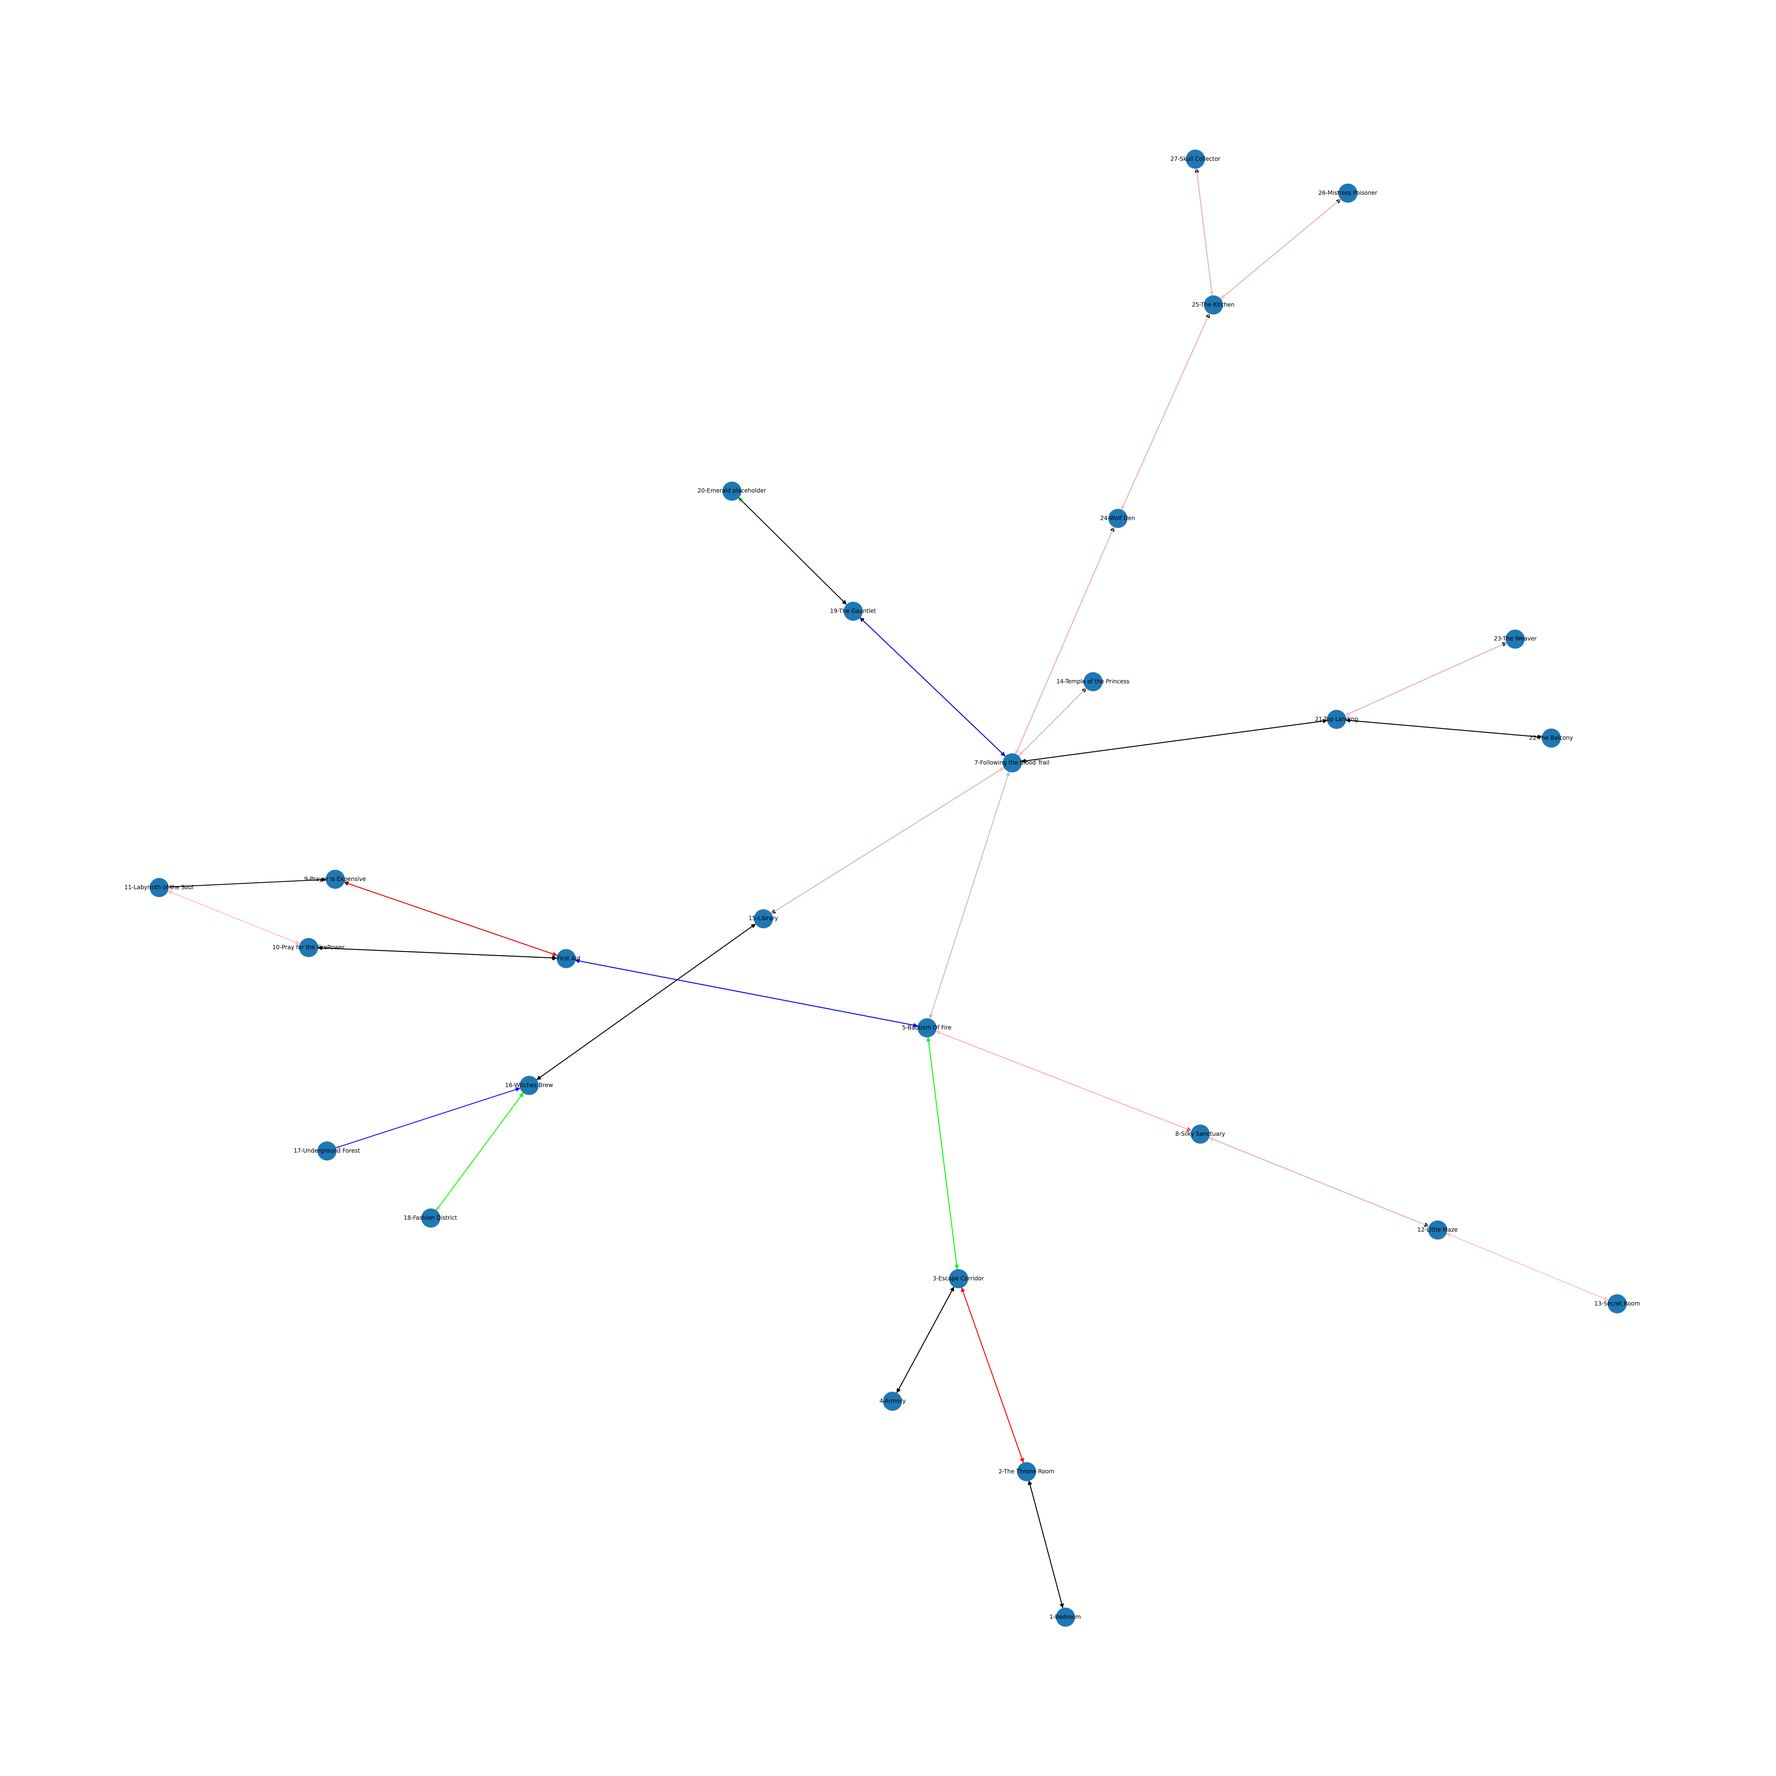
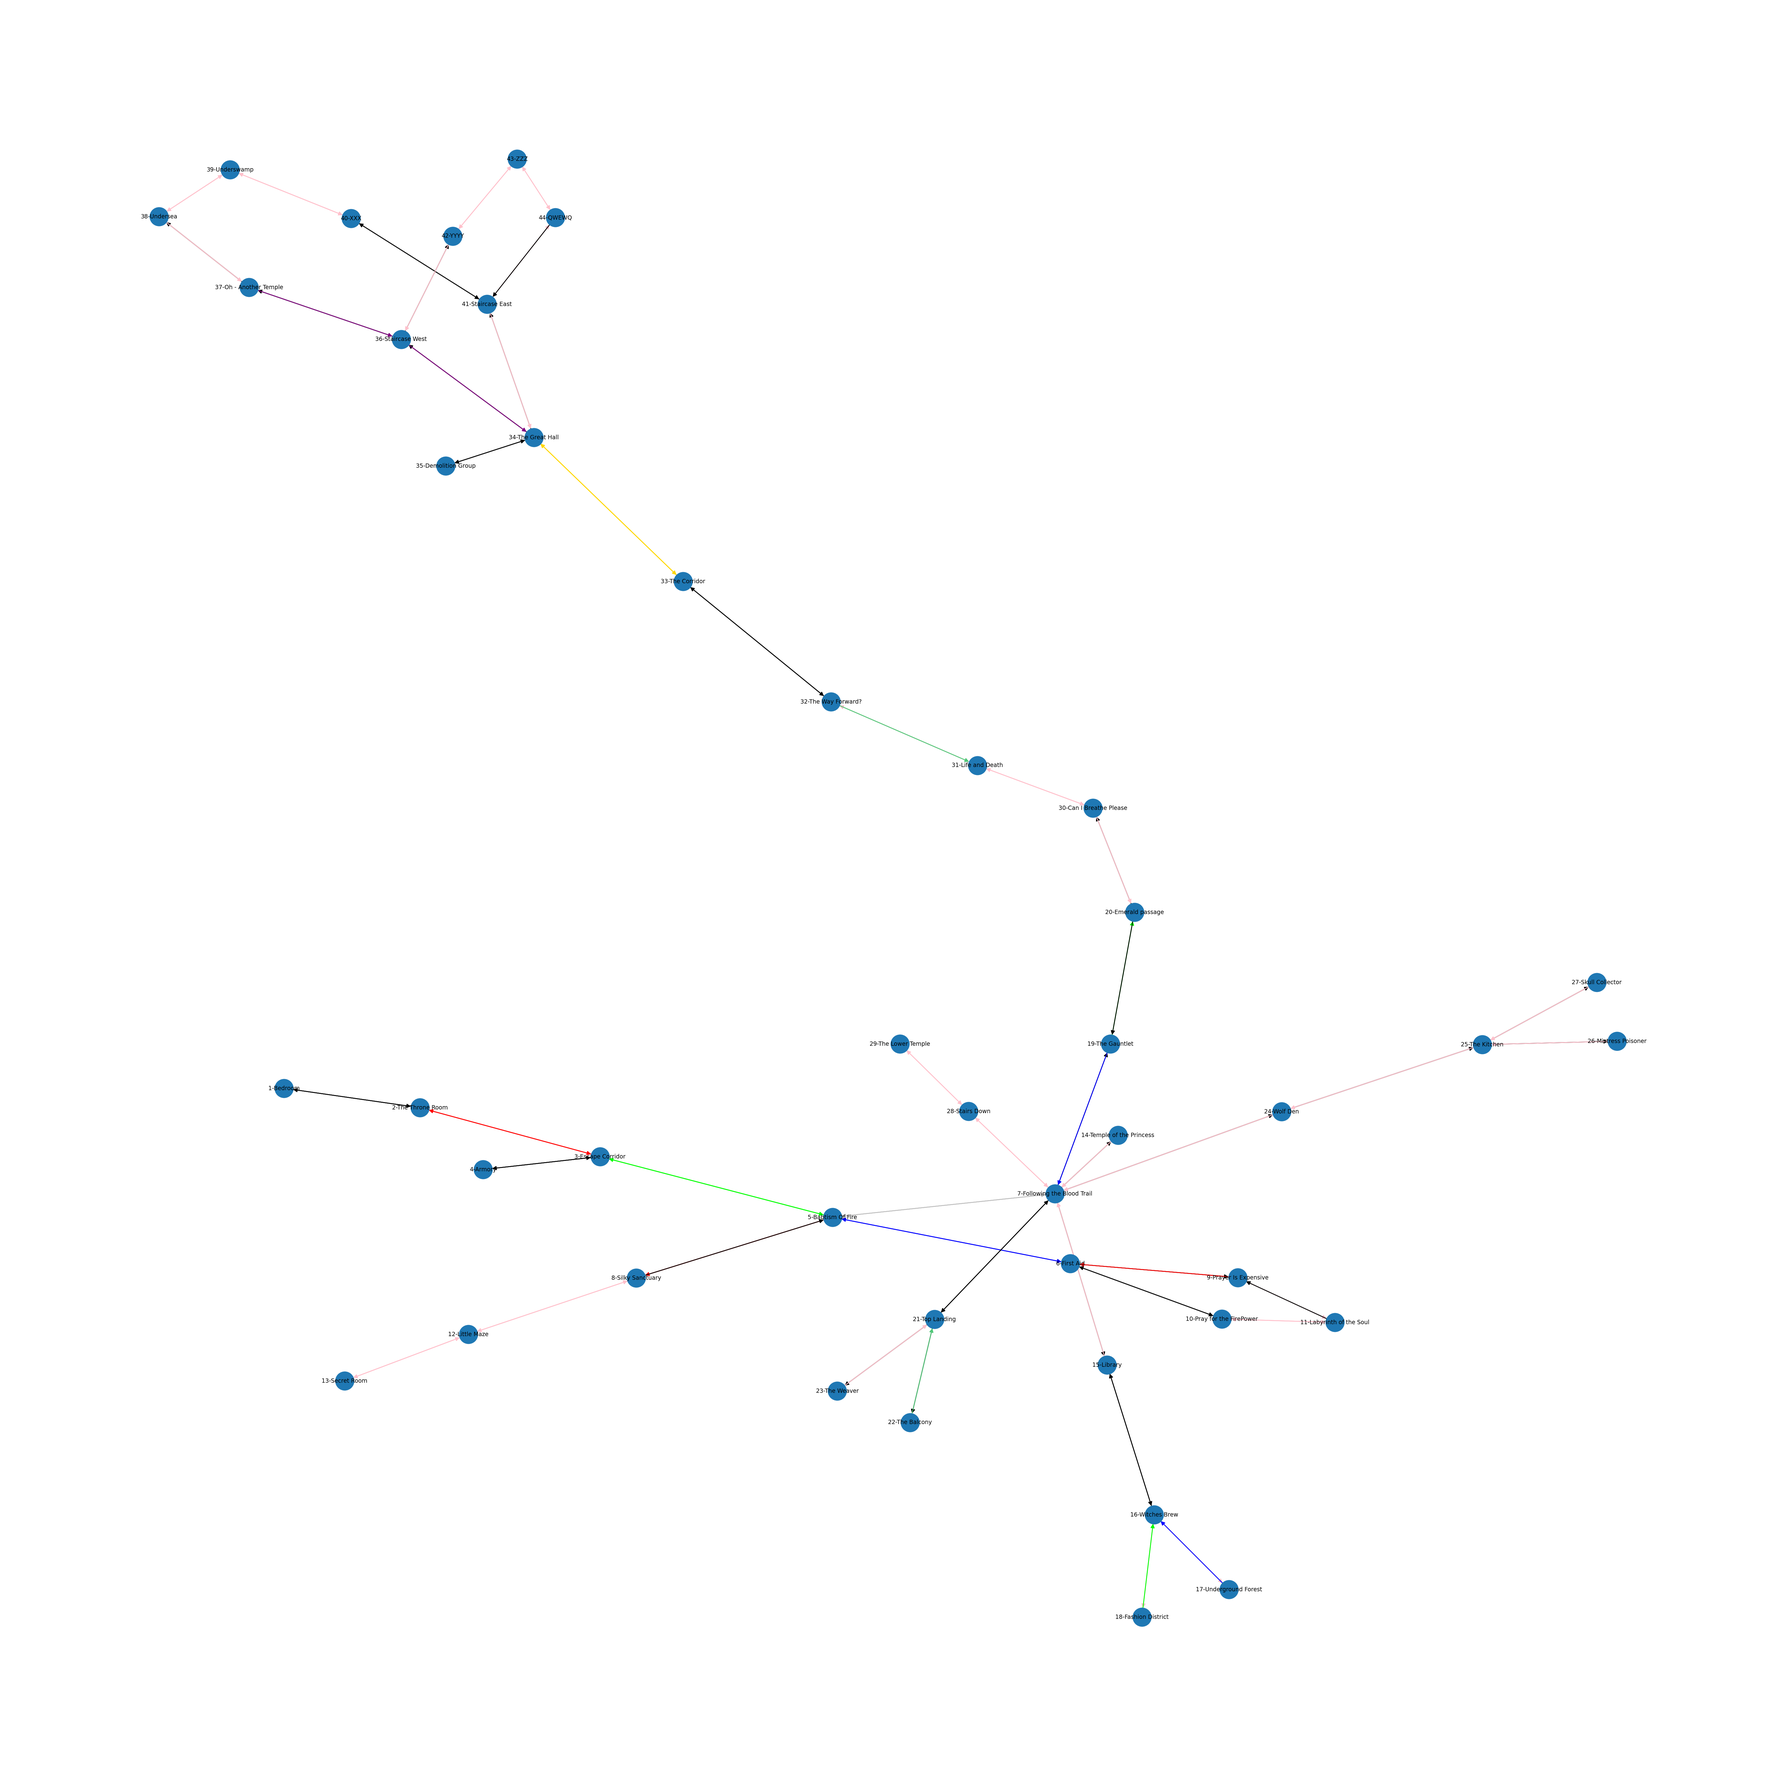
0.10.07

diff --git a/Assets/Definitions/CastleHaunt2/MAP_CastleHaunt2.js b/Assets/Definitions/CastleHaunt2/MAP_CastleHaunt2.js
@@ -41,6 +41,20 @@ const MAP_TEXT = {
     29: "You better make me rich so I can afford all this training.",
     30: "I shold prepare myself for what is comming.",
     31: "I sense the battle comming up.",
+    32: "",
+    33: "",
+    34: "",
+    35: "",
+    36: "",
+    37: "",
+    38: "",
+    39: "",
+    40: "",
+    41: "",
+    42: "",
+    43: "",
+    44: "",
+    45: "",
 };
 
 /** Map definitions */
@@ -692,7 +706,7 @@ const MAP = {
     }
     ,
     30: {
-        name: "Can I Breathe, Please",
+        name: "Can I Breathe Please",
         sg: 0,
         maxSpawned: -1,
         killCountdown: -1,
@@ -784,7 +798,7 @@ const MAP = {
         ceil: "GoldWithVines2",
         start: '[34,7]',
         lights: '[[126,1,"Lamp45","standardDimmed"],[402,1,"Lamp44","standardDimmed"],[126,7,"Candelabra10","standardDimmed"],[402,7,"Candelabra18","standardDimmed"],[258,3,"Candelabra15","standardDimmed"],[270,3,"Lamp49","standardDimmed"],[258,5,"Lamp40","standardDimmed"],[270,5,"Lights115","standardDimmed"],[25,7,"WallLamp14","dim"],[43,7,"Candelabra12","dim"],[485,1,"Lamp42","dim"],[503,1,"Lamp47","dim"]]',
-        gates: '[[11,7,"34.1","33.2","Closed"],[517,1,"34.2","35.1","Purple"],[69,5,"34.3","36.1","Closed"]]',
+        gates: '[[11,7,"34.1","33.2","Closed"],[517,1,"34.2","35.1","Purple"],[69,5,"34.3","36.1","Closed"],[91,3,"34.4","41.2","Closed"]]',
         lairs: '[[241,1,"Lair34"],[287,7,"Lair32"],[263,3,"Lair25"],[265,5,"Lair04"]]',
         monsterList: '["MissGalaxyGold","Goblin"]',
     }
@@ -819,12 +833,12 @@ const MAP = {
         ceil: "MC_Wall6",
         start: '[118,3]',
         lights: '[[110,5,"WallLamp12","standardDimmed"],[83,3,"Candelabra17","standardDimmed"],[143,3,"Lamp46","standardDimmed"]]',
-        gates: '[[119,3,"36.1","34.3","Closed"],[75,5,"36.2","37.1","Down"]]',
+        gates: '[[119,3,"36.1","34.3","Closed"],[75,5,"36.2","37.1","Down"],[135,5,"36.3","42.1","Up"]]',
         oracles: '[[7,7,"Bomber"]]',
     }
     ,
     37: {
-        name: "Oh, Another Temple",
+        name: "Oh - Another Temple",
         sg: 0,
         maxSpawned: -1,
         killCountdown: -1,
@@ -875,11 +889,83 @@ const MAP = {
         maxSpawned: -1,
         killCountdown: -1,
         spawnDelay: -1,
-        data: '{"width":"17","height":"17","map":"BB13AA2BAA156BB29AA2BB13AA10BB62A$"}',
+        data: '{"width":"17","height":"17","map":"BB4ABB9ABAA156BB30ABB9ABB2AA2BAA8BB62A$"}',
         wall: "DARKBricks107",
         floor: "DarkRock",
         ceil: "SpiderWeb12",
         start: '[222,5]',
-        gates: '[[221,5,"40.1","39.2","Down"]]',
+        gates: '[[221,5,"40.1","39.2","Down"],[67,3,"40.2","41.1","Up"]]',
+    }
+    ,
+    41: {
+        name: "Staircase East",
+        sg: 0,
+        maxSpawned: -1,
+        killCountdown: -1,
+        spawnDelay: -1,
+        data: '{"width":"15","height":"15","map":"BB6ABB4AA2BB2AA110BB26AA2BB4ABB4AA4BAA3BB54A$"}',
+        wall: "RedishRockyWall1",
+        floor: "MarbleFloor105",
+        ceil: "MarbleTiles4",
+        start: '[151,5]',
+        gates: '[[150,5,"41.1","40.2","Down"],[60,5,"41.2","34.4","Closed"],[119,3,"41.3","44.2","Up"]]',
+    }
+    ,
+    42: {
+        name: "YYYY",
+        sg: 0,
+        maxSpawned: -1,
+        killCountdown: -1,
+        spawnDelay: -1,
+        data: '{"width":"21","height":"15","map":"BB9AA24BB2AA6BAA101BAA12BB2AA25BB24AA3BB13ABB3AA9BB78A$"}',
+        wall: "SmallBlackBricks44",
+        floor: "MarbleFloor104",
+        ceil: "MC_Wall9",
+        start: '[151,3]',
+        gates: '[[152,3,"42.1","36.3","Down"],[167,3,"42.","43.1","Closed"]]',
+    }
+    ,
+    43: {
+        name: "Meadow",
+        sg: 0,
+        maxSpawned: -1,
+        killCountdown: -1,
+        spawnDelay: -1,
+        data: '{"width":"21","height":"15","map":"BB2ABABB7AA54BAA39BAA3BAA31BB2AA18BAA22BABB10ABABAA2BB15ABB5ABB6ABAA7BB23ABB38$BB12A"}',
+        wall: "MistyMeadow4",
+        floor: "GrassMeadow101",
+        ceil: "Overcast2",
+        start: '[148,5]',
+        lights: '[[110,1,"Lights112","standardDimmed"],[121,1,"Lights112","standardDimmed"],[197,7,"Lights112","standardDimmed"],[201,7,"Lights112","standardDimmed"]]',
+        gates: '[[147,5,"43.1","42.2","Closed"],[167,3,"43.2","44.1","Closed"],[10,7,"43.3","45.1","Up"]]',
+    }
+    ,
+    44: {
+        name: "QWEWQ",
+        sg: 0,
+        maxSpawned: -1,
+        killCountdown: -1,
+        spawnDelay: -1,
+        data: '{"width":"21","height":"15","map":"BB9AA40BB3AA73BAA4BB2AA51BB27AA3BB9ABB4AA9BB78A$"}',
+        wall: "DungeonWall128",
+        floor: "Grass20",
+        ceil: "RedBricks1",
+        start: '[148,5]',
+        gates: '[[147,5,"44.1","43.2","Closed"],[160,5,"44.2","41.3","Down"]]',
+    }
+    ,
+    45: {
+        name: "Alps",
+        sg: 0,
+        maxSpawned: -1,
+        killCountdown: -1,
+        spawnDelay: -1,
+        data: '{"width":"15","height":"15","map":"BB12AA110BB42AA10BB15ABB24ABB10$"}',
+        wall: "Hills2",
+        floor: "Grass12",
+        ceil: "Overcast1",
+        start: '[202,1]',
+        lights: '[[18,7,"Candelabra08","standard"],[26,7,"Candelabra08","standard"],[199,1,"Candelabra10","standardDimmed"],[205,1,"Candelabra10","standardDimmed"]]',
+        gates: '[[217,1,"45.1","43.3","Down"]]',
     }
 };

diff --git a/Assets/Definitions/CastleHaunt2/assets_CastleHaunt2.js b/Assets/Definitions/CastleHaunt2/assets_CastleHaunt2.js
@@ -608,6 +608,37 @@ LoadTextures = [
     { srcName: "Wall/Water30.jpg", name: "Water30" },
     { srcName: "Wall/Water31.jpg", name: "Water31" },
     { srcName: "Wall/Water32.jpg", name: "Water32" },
+
+    { srcName: "Wall/Forest101.jpg", name: "Forest101" },
+    { srcName: "Wall/Forest102.jpg", name: "Forest102" },
+    { srcName: "Wall/Forest103.jpg", name: "Forest103" },
+    { srcName: "Wall/Forest104.jpg", name: "Forest104" },
+    { srcName: "Wall/Forest105.jpg", name: "Forest105" },
+    { srcName: "Wall/Forest106.jpg", name: "Forest106" },
+    { srcName: "Wall/Forest107.jpg", name: "Forest107" },
+    { srcName: "Wall/Forest108.jpg", name: "Forest108" },
+    { srcName: "Wall/Forest109.jpg", name: "Forest109" },
+    { srcName: "Wall/Forest110.jpg", name: "Forest110" },
+    { srcName: "Wall/Forest111.jpg", name: "Forest111" },
+    { srcName: "Wall/Forest112.jpg", name: "Forest112" },
+    { srcName: "Wall/Forest113.jpg", name: "Forest113" },
+    { srcName: "Wall/Forest114.jpg", name: "Forest114" },
+    { srcName: "Wall/Forest115.jpg", name: "Forest115" },
+    { srcName: "Wall/Forest116.jpg", name: "Forest116" },
+    { srcName: "Wall/GrassMeadow101.jpg", name: "GrassMeadow101" },
+    { srcName: "Wall/GrassMeadow102.jpg", name: "GrassMeadow102" },
+    { srcName: "Wall/GrassMeadow103.jpg", name: "GrassMeadow103" },
+    { srcName: "Wall/Hills1.jpg", name: "Hills1" },
+    { srcName: "Wall/Hills2.jpg", name: "Hills2" },
+    { srcName: "Wall/Hills3.jpg", name: "Hills3" },
+    { srcName: "Wall/Hills4.jpg", name: "Hills4" },
+    { srcName: "Wall/Hills5.jpg", name: "Hills5" },
+    { srcName: "Wall/MistyMeadow1.jpg", name: "MistyMeadow1" },
+    { srcName: "Wall/MistyMeadow2.jpg", name: "MistyMeadow2" },
+    { srcName: "Wall/MistyMeadow3.jpg", name: "MistyMeadow3" },
+    { srcName: "Wall/MistyMeadow4.jpg", name: "MistyMeadow4" },
+    { srcName: "Wall/Overcast1.jpg", name: "Overcast1" },
+    { srcName: "Wall/Overcast2.jpg", name: "Overcast2" },
     /** decals that are textures */
     { srcName: "Wall/Nook1.jpg", name: "Nook1" },
 
@@ -831,6 +862,8 @@ LoadSprites = [
     { srcName: "EntityPictures/ScrollSell_DestroyArmor.jpg", name: "ScrollSell_Explode" },
     { srcName: "EntityPictures/JapananeseMistress.jpg", name: "JapananeseMistress" },
     { srcName: "EntityPictures/Bomber.jpg", name: "Bomber" },
+    { srcName: "EntityPictures/Keysa_CH2.jpg", name: "Keysa" },
+    { srcName: "EntityPictures/AlloyaPinkass.jpg", name: "AlloyaPinkass" },
 
     //action movables
     { srcName: "ActionMovables/GreenSpider.png", name: "BabyGreenSpider" },

diff --git a/Assets/Definitions/MazEditor/assets_MazEditor.js b/Assets/Definitions/MazEditor/assets_MazEditor.js
@@ -602,6 +602,37 @@ LoadTextures = [
     { srcName: "Wall/Water30.jpg", name: "Water30" },
     { srcName: "Wall/Water31.jpg", name: "Water31" },
     { srcName: "Wall/Water32.jpg", name: "Water32" },
+
+    { srcName: "Wall/Forest101.jpg", name: "Forest101" },
+    { srcName: "Wall/Forest102.jpg", name: "Forest102" },
+    { srcName: "Wall/Forest103.jpg", name: "Forest103" },
+    { srcName: "Wall/Forest104.jpg", name: "Forest104" },
+    { srcName: "Wall/Forest105.jpg", name: "Forest105" },
+    { srcName: "Wall/Forest106.jpg", name: "Forest106" },
+    { srcName: "Wall/Forest107.jpg", name: "Forest107" },
+    { srcName: "Wall/Forest108.jpg", name: "Forest108" },
+    { srcName: "Wall/Forest109.jpg", name: "Forest109" },
+    { srcName: "Wall/Forest110.jpg", name: "Forest110" },
+    { srcName: "Wall/Forest111.jpg", name: "Forest111" },
+    { srcName: "Wall/Forest112.jpg", name: "Forest112" },
+    { srcName: "Wall/Forest113.jpg", name: "Forest113" },
+    { srcName: "Wall/Forest114.jpg", name: "Forest114" },
+    { srcName: "Wall/Forest115.jpg", name: "Forest115" },
+    { srcName: "Wall/Forest116.jpg", name: "Forest116" },
+    { srcName: "Wall/GrassMeadow101.jpg", name: "GrassMeadow101" },
+    { srcName: "Wall/GrassMeadow102.jpg", name: "GrassMeadow102" },
+    { srcName: "Wall/GrassMeadow103.jpg", name: "GrassMeadow103" },
+    { srcName: "Wall/Hills1.jpg", name: "Hills1" },
+    { srcName: "Wall/Hills2.jpg", name: "Hills2" },
+    { srcName: "Wall/Hills3.jpg", name: "Hills3" },
+    { srcName: "Wall/Hills4.jpg", name: "Hills4" },
+    { srcName: "Wall/Hills5.jpg", name: "Hills5" },
+    { srcName: "Wall/MistyMeadow1.jpg", name: "MistyMeadow1" },
+    { srcName: "Wall/MistyMeadow2.jpg", name: "MistyMeadow2" },
+    { srcName: "Wall/MistyMeadow3.jpg", name: "MistyMeadow3" },
+    { srcName: "Wall/MistyMeadow4.jpg", name: "MistyMeadow4" },
+    { srcName: "Wall/Overcast1.jpg", name: "Overcast1" },
+    { srcName: "Wall/Overcast2.jpg", name: "Overcast2" },
     /** decals that are textures */
     { srcName: "Wall/Nook1.jpg", name: "Nook1" },
 ];

diff --git a/Assets/Definitions/CastleHaunt2/Monsters_CastleHaunt2.js b/Assets/Definitions/CastleHaunt2/Monsters_CastleHaunt2.js
@@ -1037,7 +1037,7 @@ const MONSTER_TYPE = {
         missile: BouncingMissile,
         missileType: COMMON_ITEM_TYPE.Bounceball,
     },
-    
+
 
     MissWhite: {
         name: "MissWhite",
@@ -2859,6 +2859,32 @@ const INTERACTION_ENTITY = {
             intro: "In shadows lurk, a collector's plea, skulls she seeks, from you and me.",
             progress: "Her collection grows, yet still she waits, for more to come, through darkened gates.",
             conclusion: "With skulls in tow, her smile gleams, a gold coin yours, in moonlight beams.",
+        }
+    },
+    AlloyaPinkass: {
+        name: "AlloyaPinkass",
+        sprite: "AlloyaPinkass",
+        category: 'crest',
+        voice: "Female",
+        wants: ["GoldBar", "IronBar", "SilverBar", "UraniumBar"],
+        gives: "GoldSteel",
+        text: {
+            intro: "In fire and forge, my art does bloom, For GoldSteel creation, metals I consume.",
+            progress: "Bar by bar, the alloy takes shape, Continue your quest, let no metal escape.",
+            conclusion: "Gold, iron, silver, uranium, now blend, GoldSteel is forged, your journey's end."
+        }
+    },
+    Keysa: {
+        name: "Keysa",
+        sprite: "Keysa",
+        category: 'crest',
+        voice: "Female",
+        wants: ["GoldSteel", "PurpleTear"],
+        gives: "PurpleKey",
+        text: {
+            intro: "In my workshop, magic and metal blend, For a unique key, two treasures I'll mend.",
+            progress: "One piece is here, bring another to be clear.",
+            conclusion: "GoldSteel and PurpleTear, now finely entwined, Behold, the PurpleKey, uniquely designed."
         }
     },
 };

diff --git a/Games/MazEditor/MazEditor.html b/Games/MazEditor/MazEditor.html
@@ -511,18 +511,19 @@
                             Export:
                         </legend>
                         <textarea id="exp" style="width: 1200px; height: 256px;">
-                            40 : {
-                                name: "XXX",
+                            45 : {
+                                name: "Alps",
                                 sg: 0,
                                 maxSpawned: -1,
                                 killCountdown: -1,
                                 spawnDelay: -1,
-                                data: '{"width":"17","height":"17","map":"BB13AA2BAA156BB29AA2BB13AA10BB62A$"}',
-                                wall: "DARKBricks107",
-                                floor: "DarkRock",
-                                ceil: "SpiderWeb12",
-                                start: '[222,5]',
-                                gates: '[[221,5,"40.1","39.2","Down"]]',
+                                data: '{"width":"15","height":"15","map":"BB12AA110BB42AA10BB15ABB24ABB10$"}',
+                                wall: "Hills2",
+                                floor: "Grass12",
+                                ceil: "Overcast1",
+                                start: '[202,1]',
+                                lights: '[[18,7,"Candelabra08","standard"],[26,7,"Candelabra08","standard"],[199,1,"Candelabra10","standardDimmed"],[205,1,"Candelabra10","standardDimmed"]]',
+                                gates: '[[217,1,"45.1","43.3","Down"]]',
                                 }
                         </textarea>
                     </fieldset>

diff --git a/Games/CasstleHaunt2/CastleHaunt2.js b/Games/CasstleHaunt2/CastleHaunt2.js
@@ -50,9 +50,17 @@ const DEBUG = {
     checkPoint() {
         /** main area 3:
          * 
-         * Purple key: from KEysa by giving "GoldSteel", "PurpleTear"
-         * GoldSteel: from %%%% by giving "Gold", "Iron"
-         * PurpleTear
+         * Purple key: from Keysa by giving "GoldSteel", "PurpleTear"
+         * GoldSteel: from AlloyaPinkass by giving "GoldBar", "IronBar", "SilverBar", "UraniumBar"
+         * PurpleTear: Gemma by giving "Diamond", "Amethyst", "Moonstone", "Pearl"
+         * "GoldBar", 
+         * "IronBar", 
+         * "SilverBar", 
+         * "UraniumBar"
+         * Diamond", 
+         * "Amethyst", 
+         * "Moonstone", 
+         * "Pearl"
 
 
         *
@@ -70,7 +78,7 @@ const DEBUG = {
          */
 
         console.info("DEBUG::Loading from checkpoint, this may clash with LOAD");
-        GAME.level = 40;    //34
+        GAME.level = 34;    //34
         GAME.gold = 2271;
         GAME.lives = 2;
 
@@ -137,7 +145,7 @@ const INI = {
 };
 
 const PRG = {
-    VERSION: "0.10.06",
+    VERSION: "0.10.07",
     NAME: "Castle Haunt II",
     YEAR: "2024",
     SG: "CH2",

diff --git a/Code/Python/FilesToAssets.py b/Code/Python/FilesToAssets.py
@@ -20,11 +20,11 @@ from glob import glob
 # Directory = 'C:/Users/lovro/OneDrive/Documents/JS/CastleHaunt2/Assets/Graphics/Textures/Wall'
 # Directory = 'C:/Users/lovro/Downloads/#textures2'
 # Directory = 'C:/Users/lovro/Downloads/Shield'
-Directory = 'C:/Users/lovro/Downloads/NewPicDecals'
+Directory = 'C:/Users/lovro/Downloads/NewTextures'
 # Prefix = 'Items/'
-# Prefix = 'Wall/'
+Prefix = 'Wall/'
 # Prefix = "Lights/"
-Prefix = "PicDecals/"
+# Prefix = "PicDecals/"
 # Prefix = "ObjDecals/"
 
 # Prefix = 'Lairs/'
